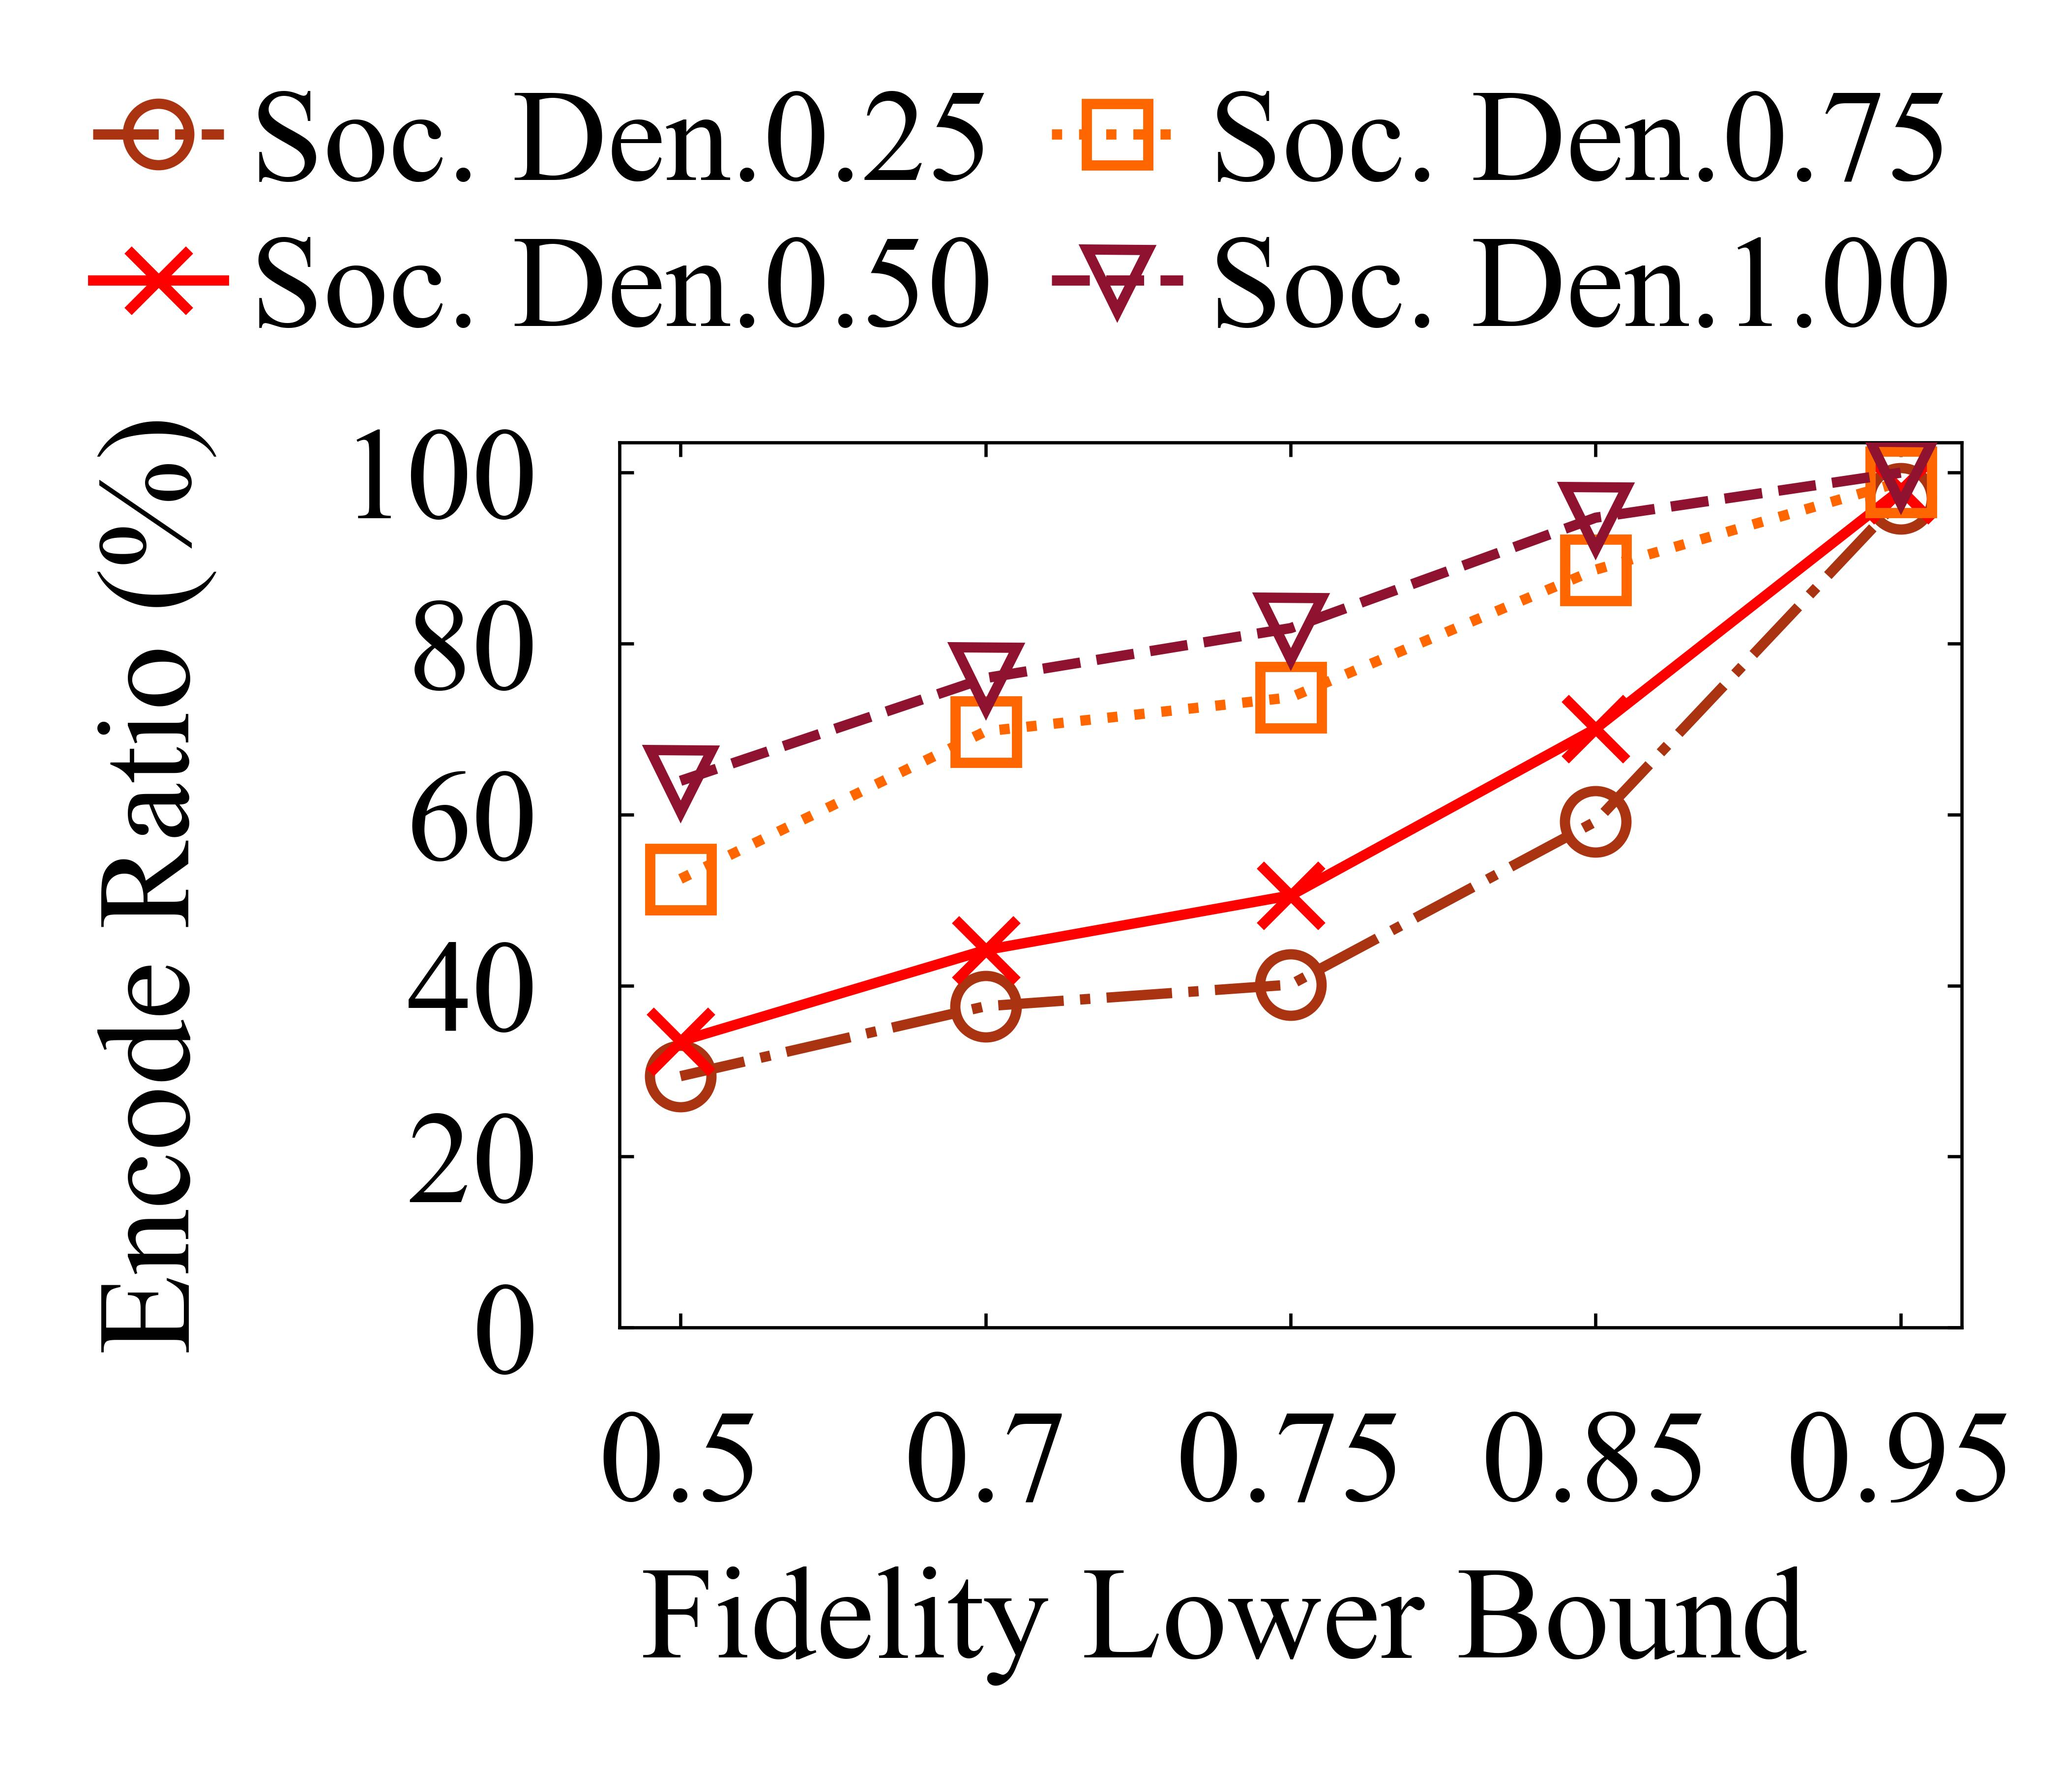
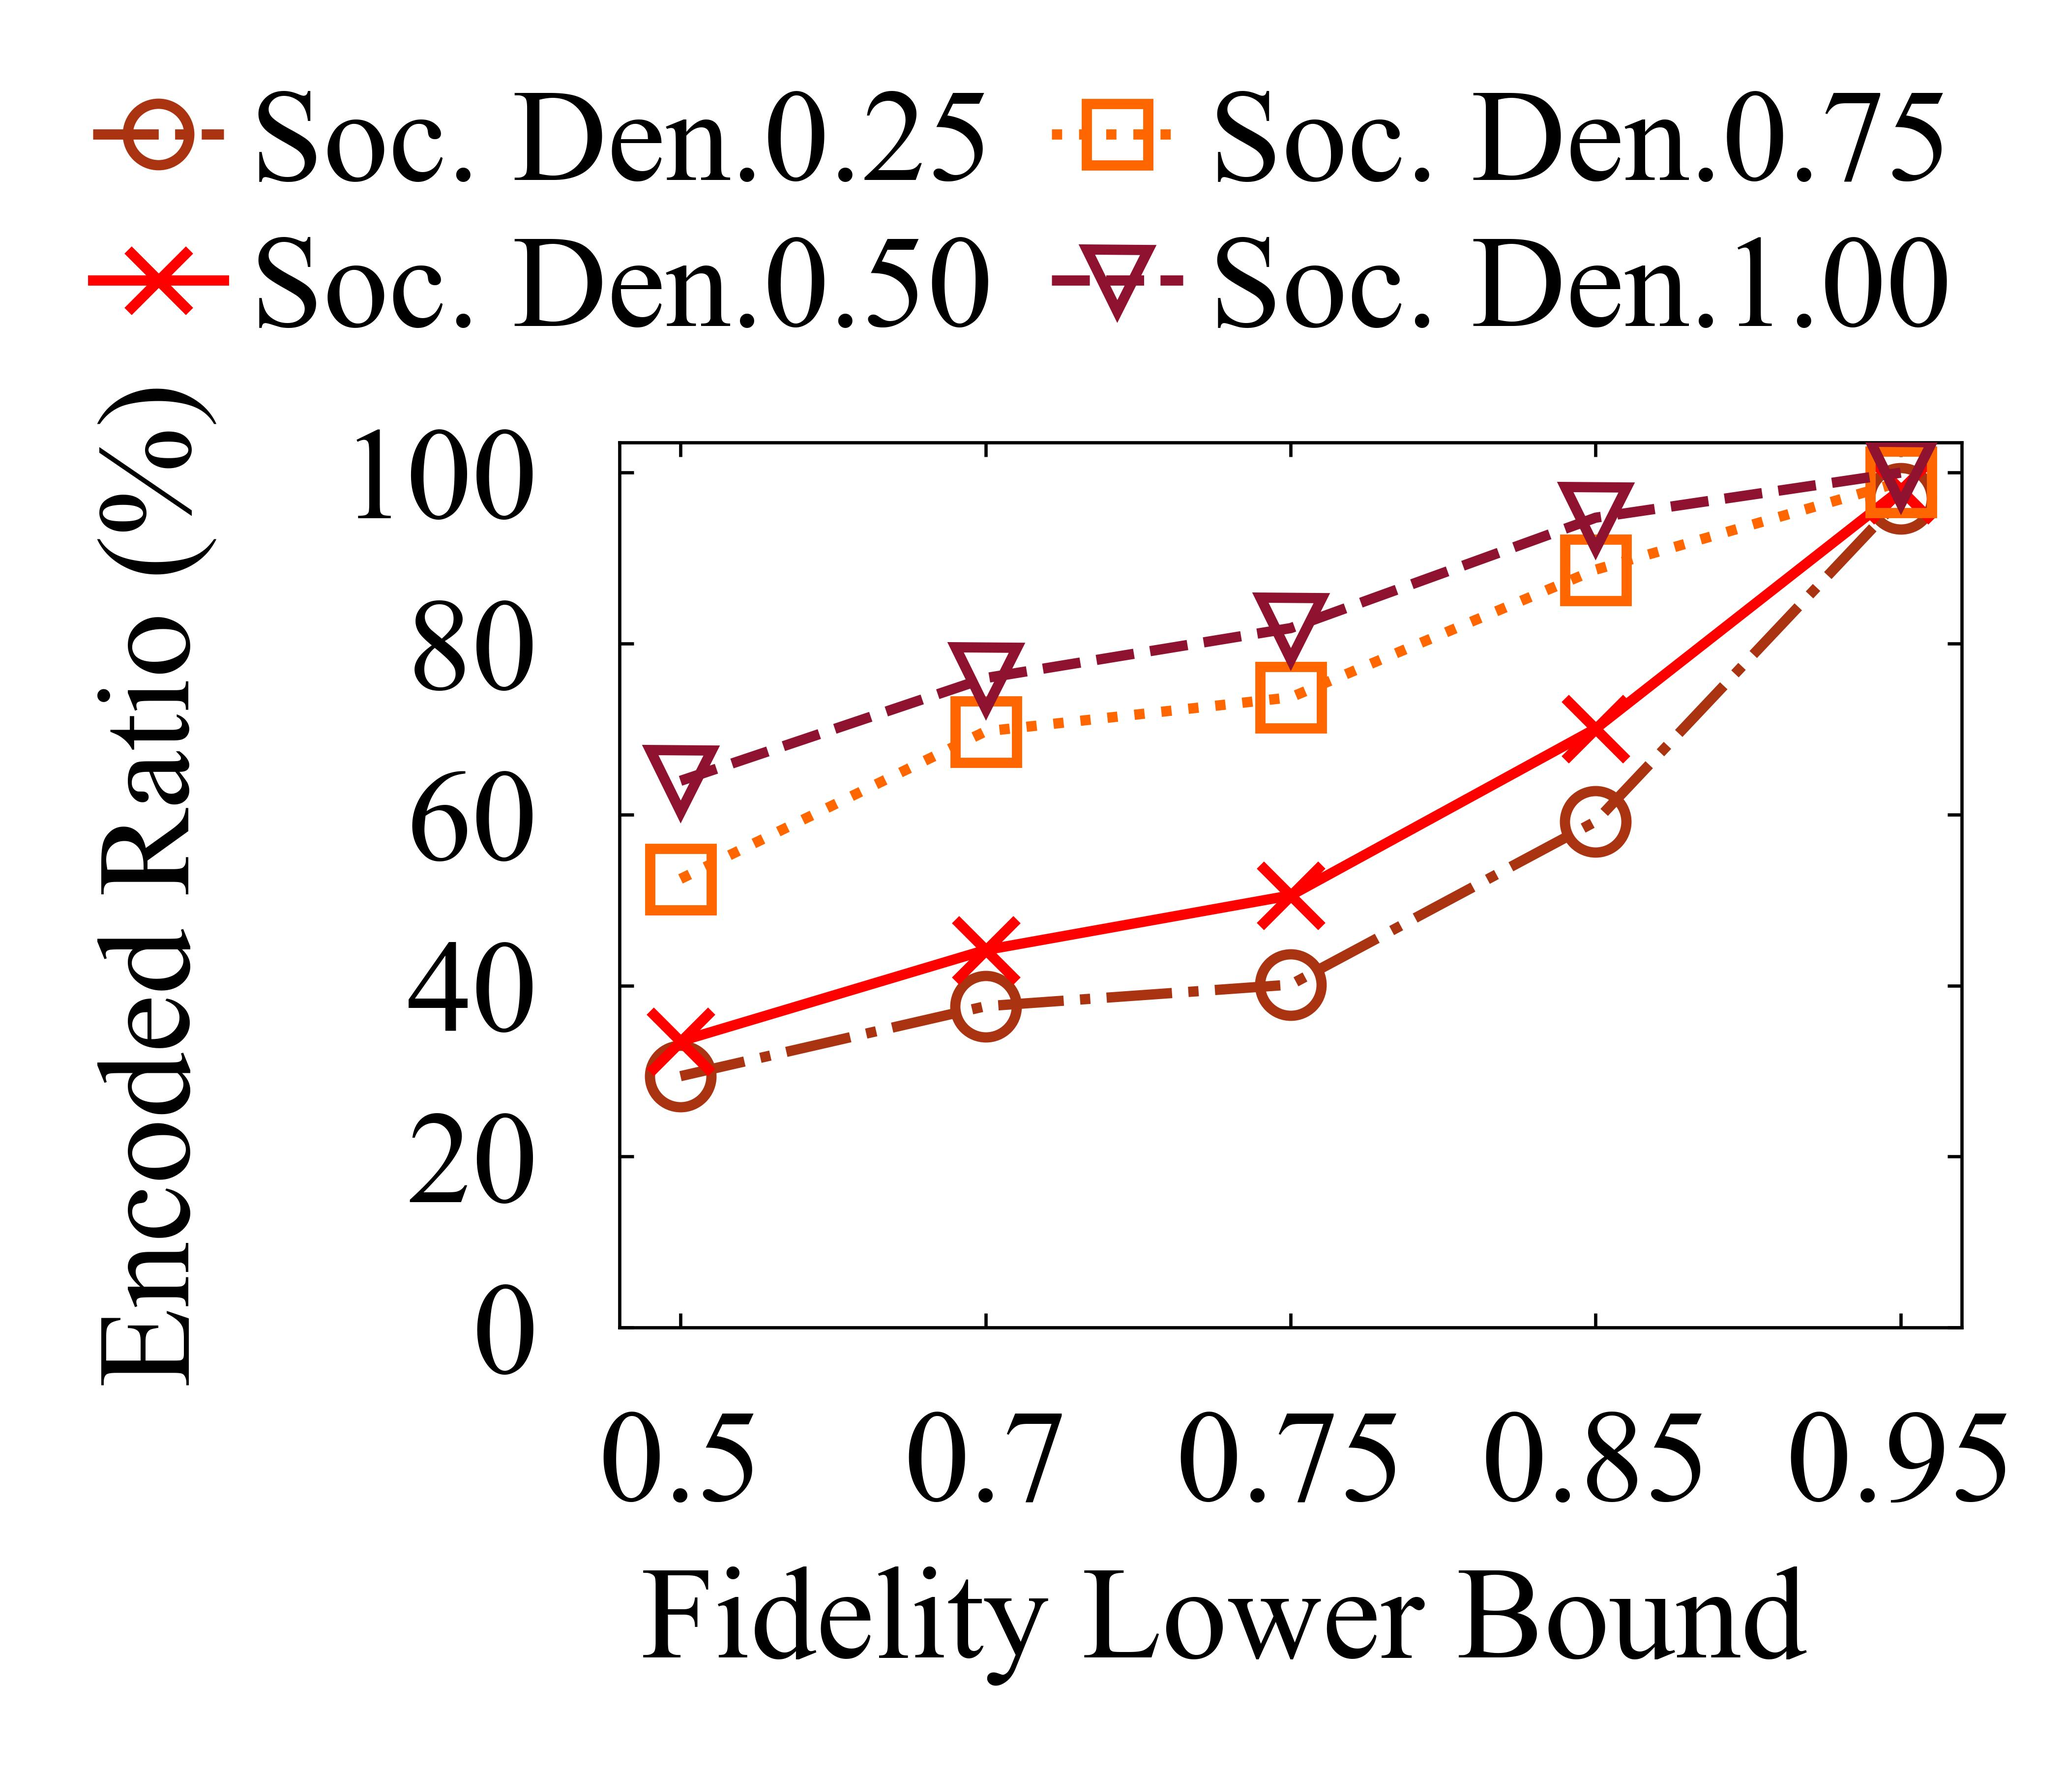
Encode Ratio -> Encoded Ratio

Changed region(s): [[0.0312, 0.2178, 0.0936, 0.7778]]

diff --git a/use/min_fidelity_encode_ratio/ChartGenerator.py b/use/min_fidelity_encode_ratio/ChartGenerator.py
@@ -218,6 +218,6 @@ if __name__ == "__main__":
 
 
     Xlabel = "Fidelity Lower Bound"
-    Ylabel = "Encode Ratio (%)"
+    Ylabel = "Encoded Ratio (%)"
     dataFileName = "min_fidelity_encode_rate.ans"
     ChartGenerator(dataFileName, Ylabel, Xlabel)
